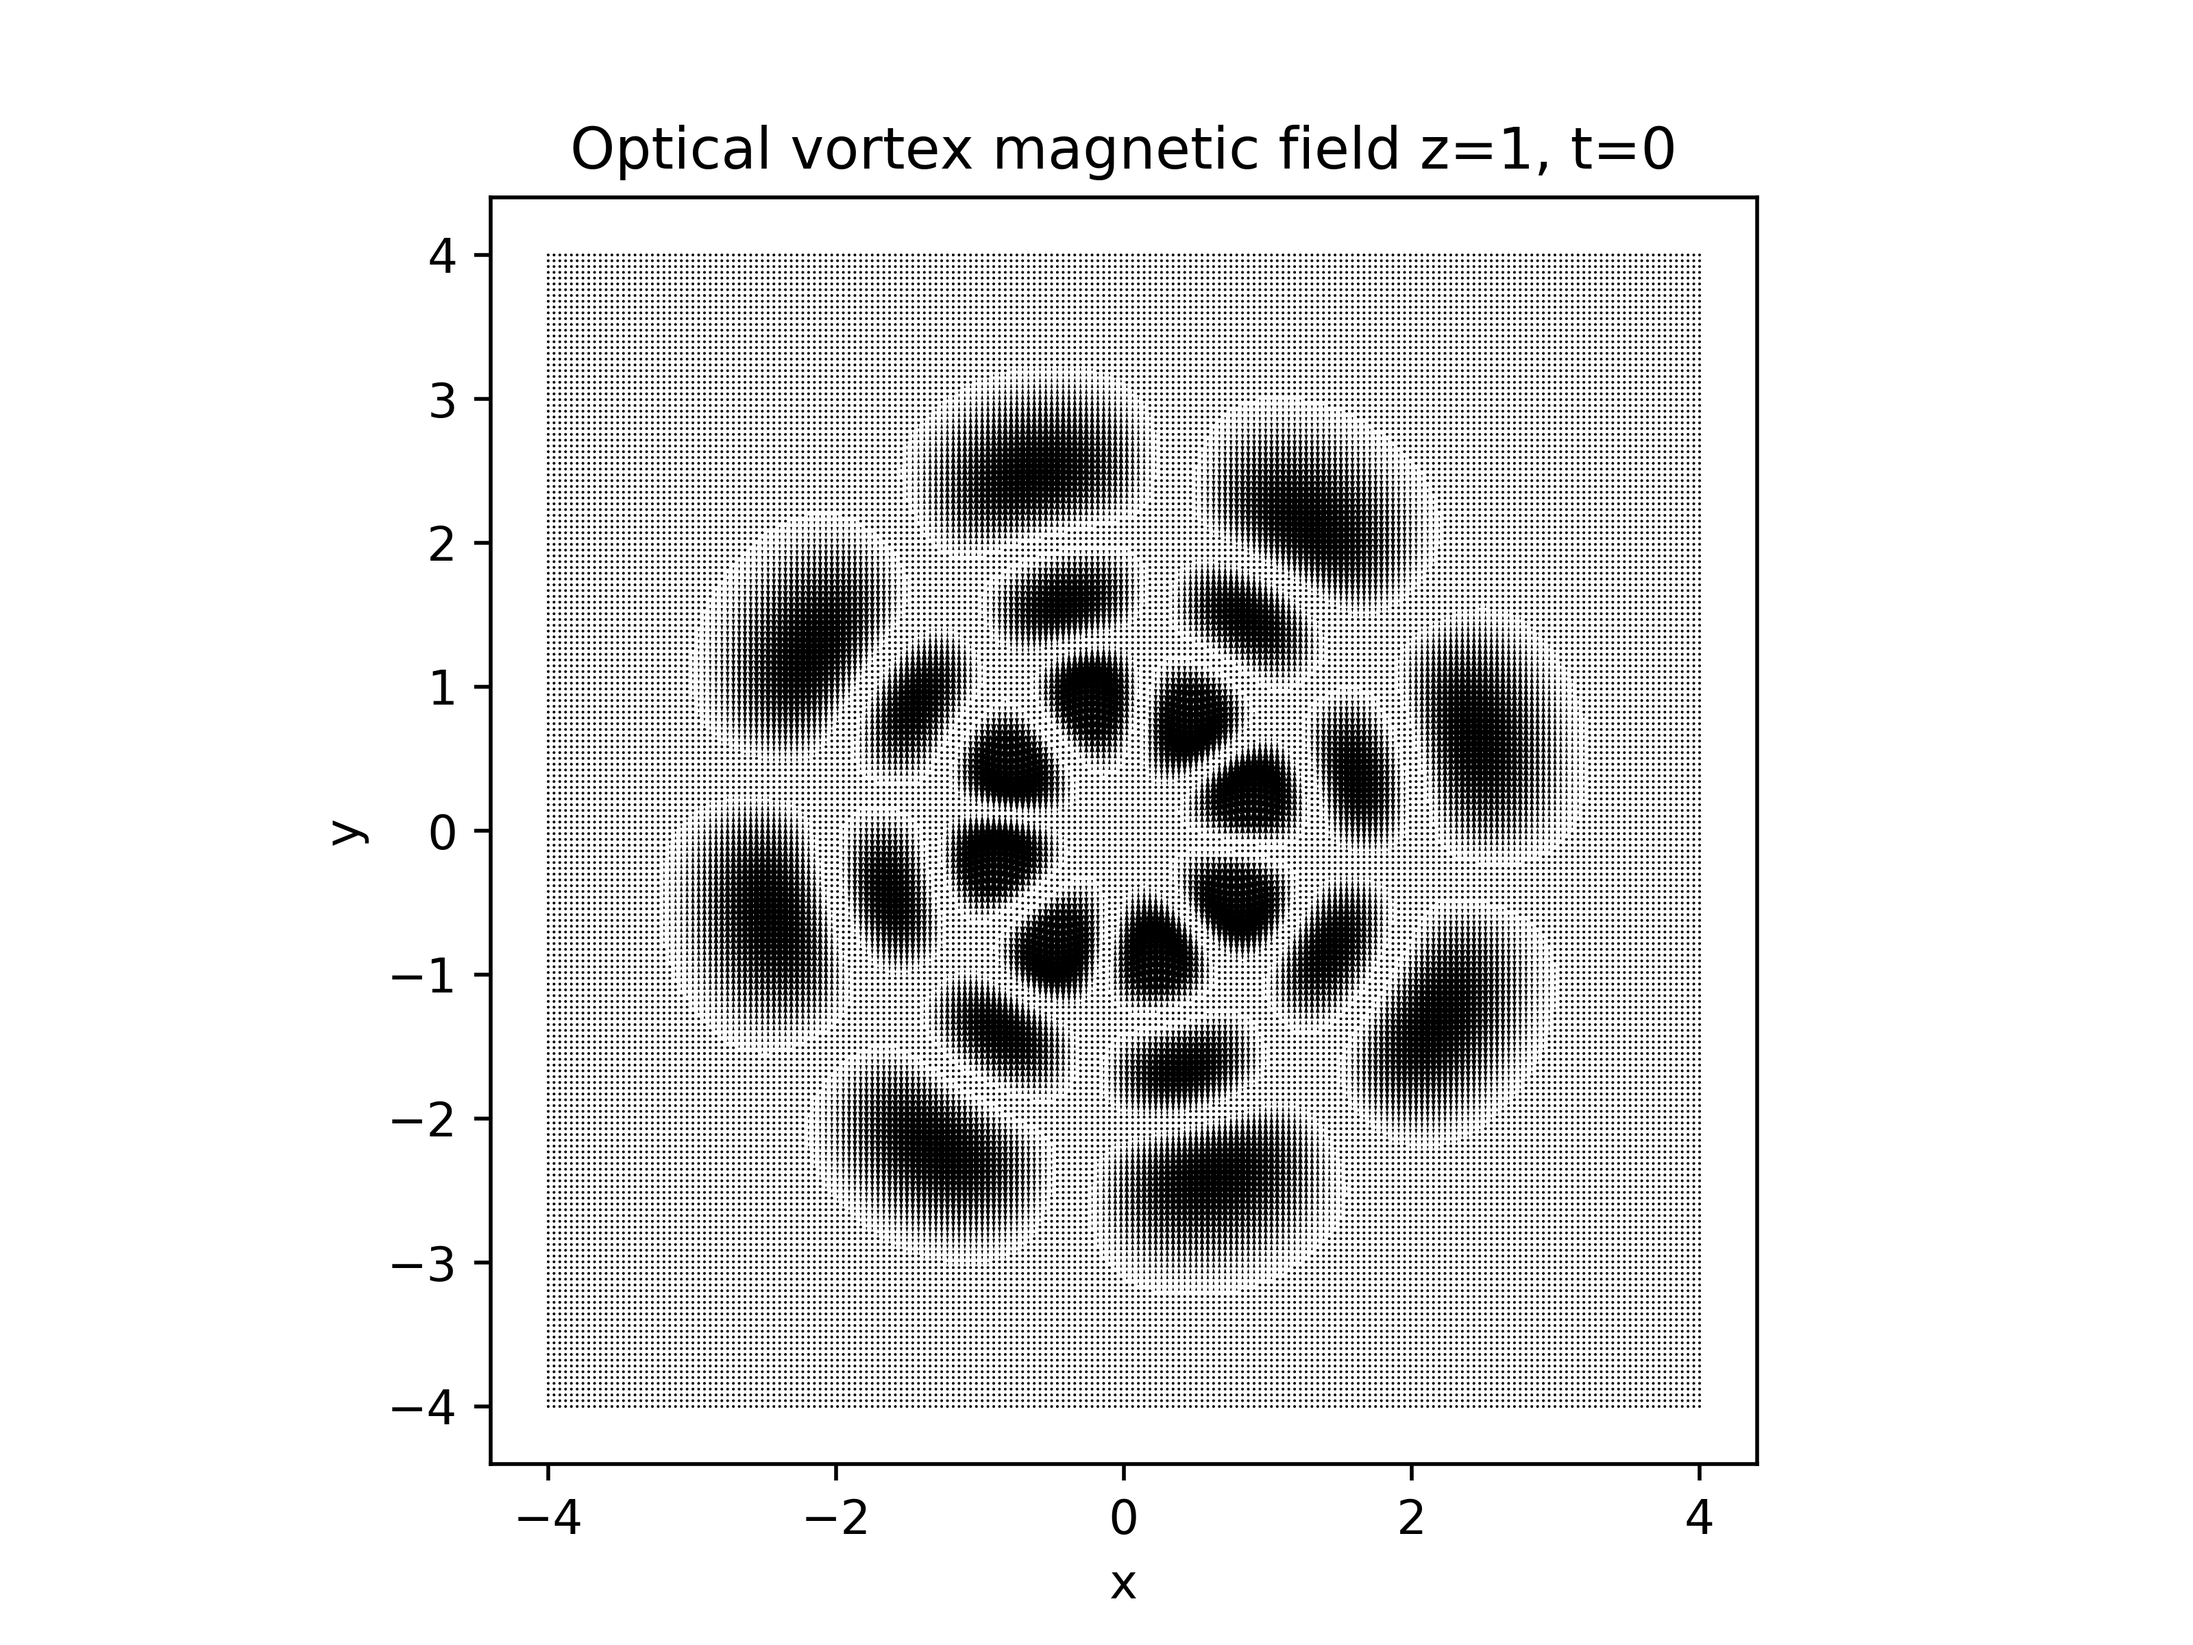
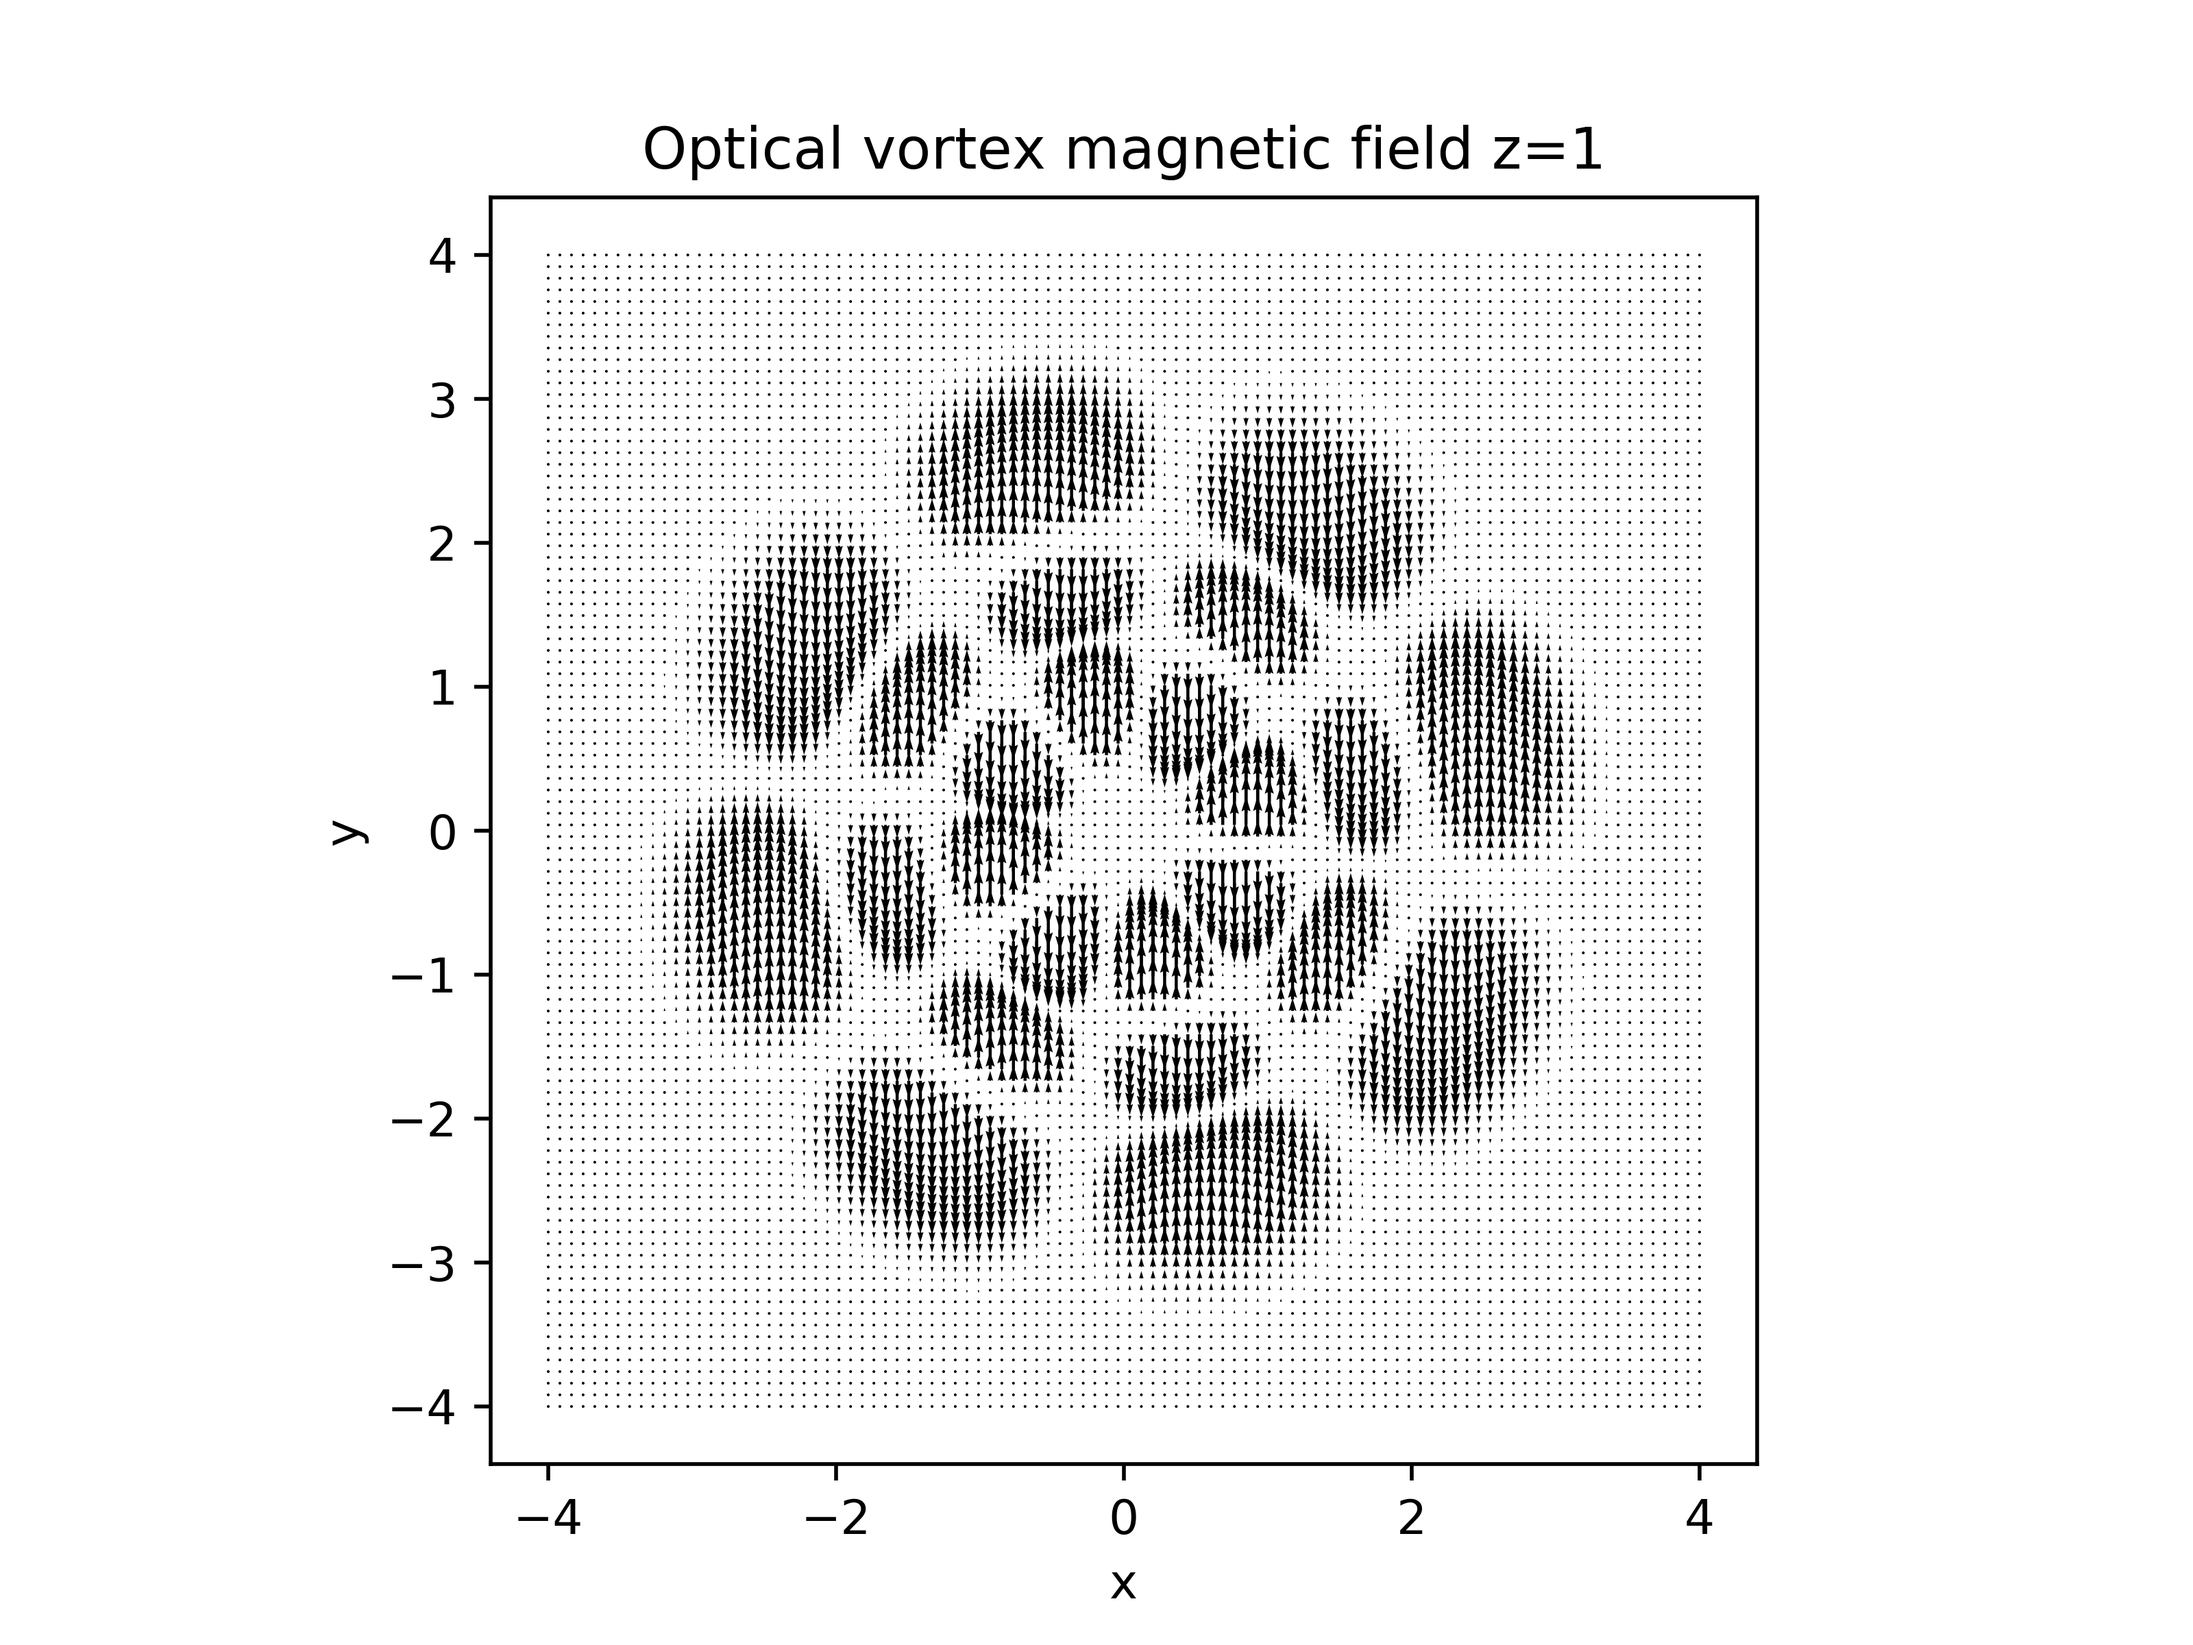
final code

Changed region(s): [[0.25, 0.1562, 0.7812, 0.875], [0.25, 0.0625, 0.7812, 0.125]]

diff --git a/vortex.py b/vortex.py
@@ -105,10 +105,14 @@ def B_mag(x, y, l, p):
 
 def E(x, y, l, p):
     mag = E_mag(x, y, l, p)
+    ang = np.arctan2(y, x)
+    #return np.cos(ang) * mag, np.sin(ang) * mag
     return E_u[0] * mag, E_u[1] * mag
 
 def B(x, y, l, p):
     mag = B_mag(x, y, l, p)
+    ang = np.arctan2(y, x)
+    #return np.cos(ang + np.pi/2) * mag, np.sin(ang + np.pi/2) * mag
     return B_u[0] * mag, B_u[1] * mag
 
 # Construct a 2D space normal to the beam axis,
@@ -179,7 +183,7 @@ plt.savefig('b_mag.png', dpi=500)
 
 
 
-x = np.linspace(-4,4,200)
+x = np.linspace(-4,4,100)
 y = x
 X, Y = np.meshgrid(x,y)
 
